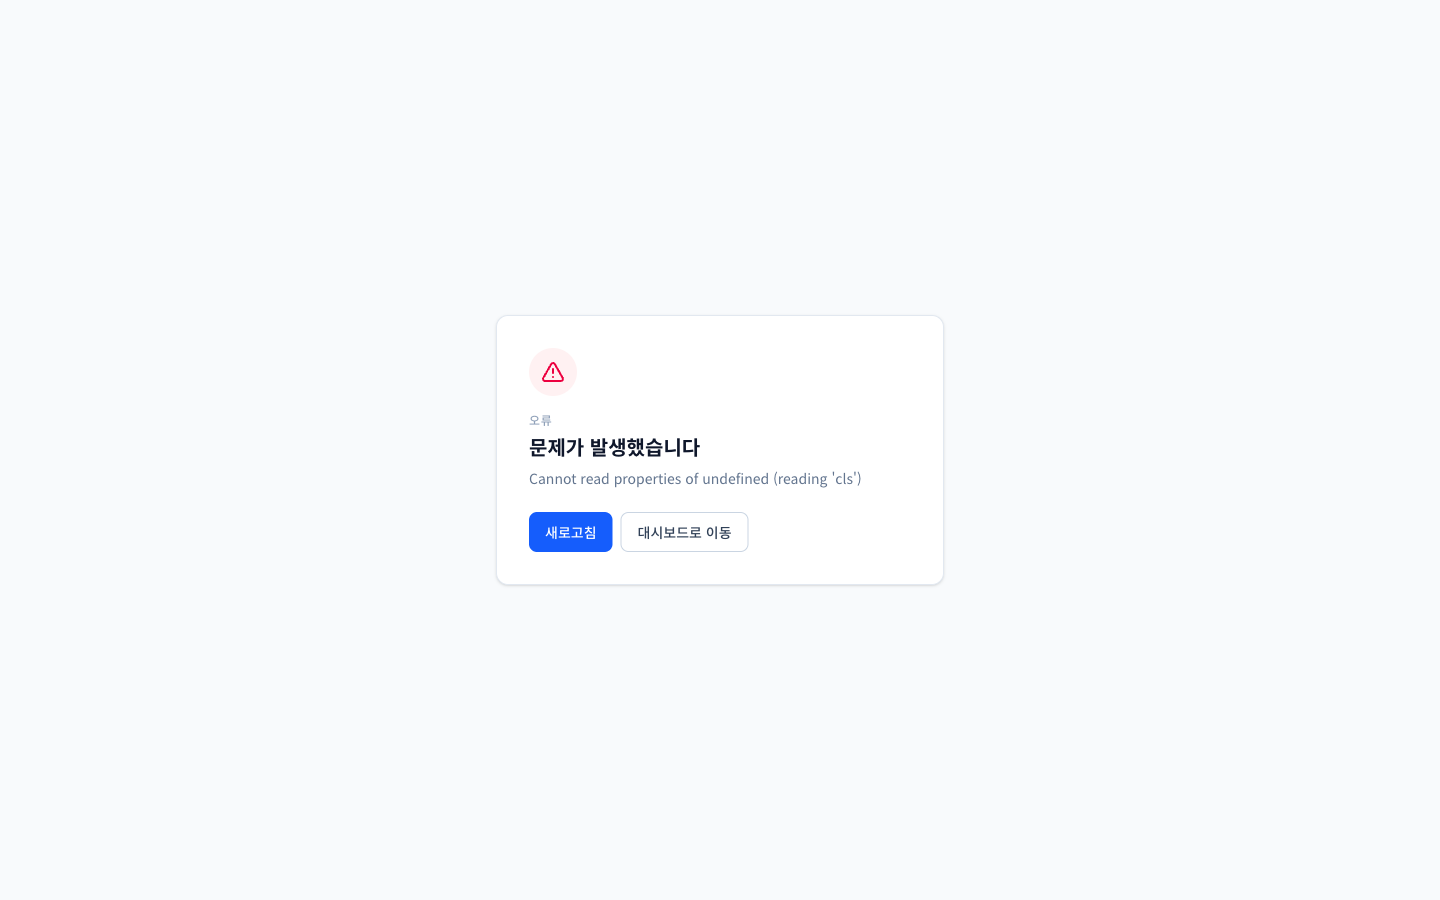
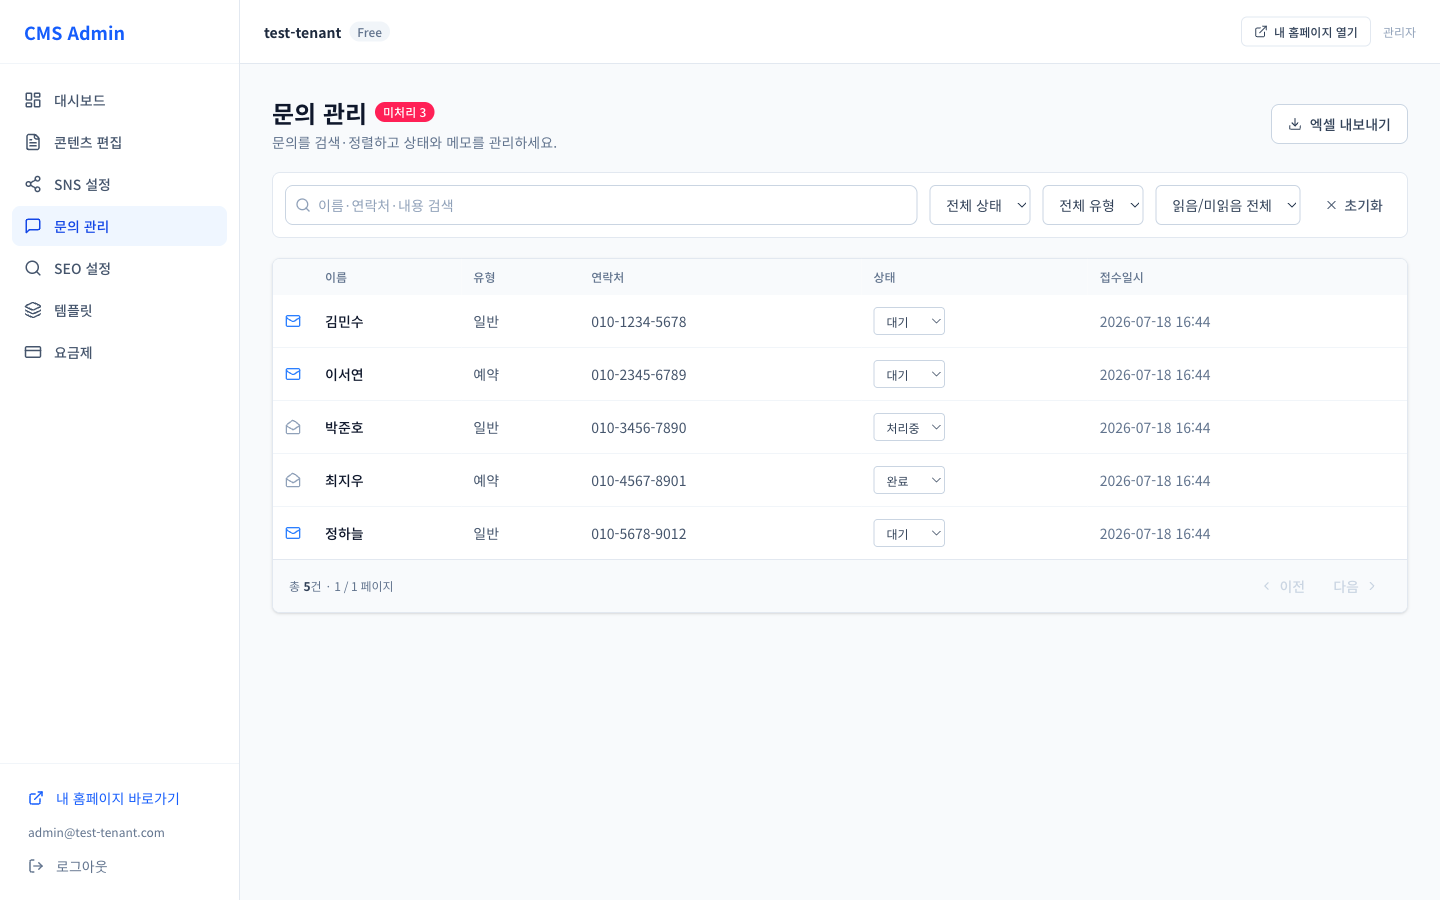
fix(docs): 문의 관리 스크린샷 재캡처 + 데모 status 값 수정
demo_seed의 문의 status가 무효값("CONFIRMED")이라 StatusBadge가
크래시(reading 'cls')해 에러 화면이 캡처됐던 문제 수정. 유효값
(PENDING/IN_PROGRESS/DONE)으로 교체하고 문의 관리 화면 재캡처.

diff --git a/apps/backend/scripts/demo_seed.py b/apps/backend/scripts/demo_seed.py
@@ -38,11 +38,12 @@ SECTIONS = [
     ("CONTACT", "문의하기", [("title", "무엇이든 문의하세요")]),
 ]
 
+# status: PENDING(대기) · IN_PROGRESS(처리중) · DONE(완료) · SPAM(스팸)
 INQUIRIES = [
     ("GENERAL", "김민수", "010-1234-5678", "도수치료 비용이 궁금합니다.", "PENDING", False),
     ("RESERVATION", "이서연", "010-2345-6789", "토요일 진료 예약 가능한가요?", "PENDING", False),
-    ("GENERAL", "박준호", "010-3456-7890", "주차 가능한지 문의드립니다.", "CONFIRMED", True),
-    ("RESERVATION", "최지우", "010-4567-8901", "체외충격파 상담 원합니다.", "CONFIRMED", True),
+    ("GENERAL", "박준호", "010-3456-7890", "주차 가능한지 문의드립니다.", "IN_PROGRESS", True),
+    ("RESERVATION", "최지우", "010-4567-8901", "체외충격파 상담 원합니다.", "DONE", True),
     ("GENERAL", "정하늘", "010-5678-9012", "예약 변경하고 싶어요.", "PENDING", False),
 ]
 
